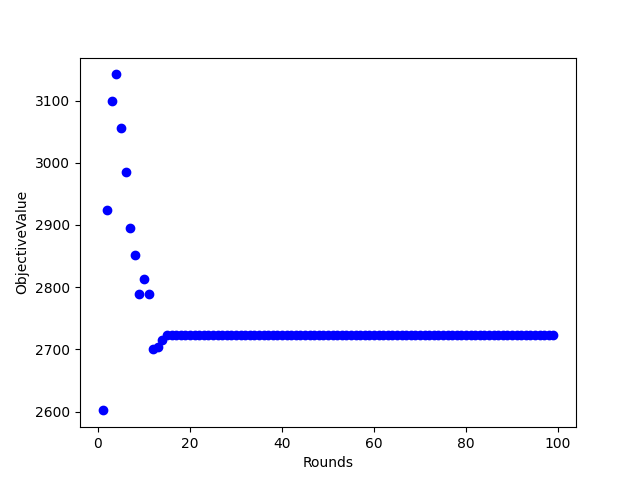
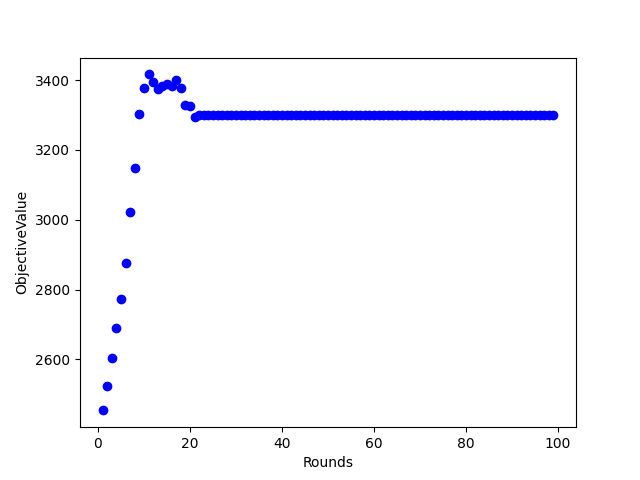
heatmap

diff --git a/synthetic instances/main.py b/synthetic instances/main.py
@@ -1,4 +1,5 @@
 import random
+import time
 import numpy as np
 import graph
 import optimal
@@ -7,14 +8,16 @@ import alg2
 import matplotlib.pyplot as plt
 from advertiser import Advertiser
 from impression import Impression
+import seaborn as sns
 
 def frange(start, stop, step):
     while start < stop:
         yield start
         start += step
 
-def createSyntheticInstance(numAdvs, numImps, seed = 0):
-    random.seed(seed)
+def createSyntheticInstance(numAdvs, numImps, seed = None):
+    if seed is not None:
+        random.seed(seed)
     numTypes = 10
     advsList = []
     for i in range(numAdvs):
@@ -75,60 +78,85 @@ def test():
     weights = optimal.createVectorC(a,i)
     roundsArr, epsArr, lamArr, maxOverflowArr, timeArr, objArr = [], [], [], [], [], [] 
 
-    # for rounds in range (1,100):
-    #     print("Rounds:", rounds)
-    #     alg2Solved, alg2TimeTaken, maxOverflow = alg2.solve(a,i,weights,0.5,0.9,rounds)
-    #     alg2Obj = objectiveValue(alg2Solved, weights)
-    #     roundsArr.append(rounds)
-    #     maxOverflowArr.append(maxOverflow)
-    #     timeArr.append(alg2TimeTaken)
-    #     objArr.append(alg2Obj)
-    # graph.graph(roundsArr, maxOverflowArr, "Rounds", "MaximumBudgetOverflow")
-    # graph.graph(roundsArr, timeArr, "Rounds", "TimeTaken")
-    # graph.graph(roundsArr, objArr, "Rounds", "ObjectiveValue")
+    for rounds in range (1,100):
+        print("Rounds:", rounds)
+        alg2Solved, alg2TimeTaken, maxOverflow = alg2.solve(a,i,weights,0.25,0.435,rounds)
+        alg2Obj = objectiveValue(alg2Solved, weights)
+        roundsArr.append(rounds)
+        maxOverflowArr.append(maxOverflow)
+        timeArr.append(alg2TimeTaken)
+        objArr.append(alg2Obj)
+    graph.graph(roundsArr, maxOverflowArr, "Rounds", "MaximumBudgetOverflow")
+    graph.graph(roundsArr, timeArr, "Rounds", "TimeTaken")
+    graph.graph(roundsArr, objArr, "Rounds", "ObjectiveValue")
 
     # roundsArr, epsArr, lamArr, maxOverflowArr, timeArr, objArr = [], [], [], [], [], [] 
 
-    for eps in frange(0.01,1.0,0.025):
-        print("Epsilon:", eps)
-        alg2Solved, alg2TimeTaken, maxOverflow = alg2.solve(a,i,weights,0.5,eps,20)
-        alg2Obj = objectiveValue(alg2Solved, weights)
-        epsArr.append(eps)
-        maxOverflowArr.append(maxOverflow)
-        timeArr.append(alg2TimeTaken)
-        objArr.append(alg2Obj)
-    graph.graph(epsArr, maxOverflowArr, "Epsilon", "MaximumBudgetOverflow")
-    graph.graph(epsArr, timeArr, "Epsilon", "TimeTaken")
-    graph.graph(epsArr, objArr, "Epsilon", "ObjectiveValue")
+    # for eps in frange(0.01,1.0,0.025):
+    #     print("Epsilon:", eps)
+    #     alg2Solved, alg2TimeTaken, maxOverflow = alg2.solve(a,i,weights,0.5,eps,20)
+    #     alg2Obj = objectiveValue(alg2Solved, weights)
+    #     epsArr.append(eps)
+    #     maxOverflowArr.append(maxOverflow)
+    #     timeArr.append(alg2TimeTaken)
+    #     objArr.append(alg2Obj)
+    # graph.graph(epsArr, maxOverflowArr, "Epsilon", "MaximumBudgetOverflow")
+    # graph.graph(epsArr, timeArr, "Epsilon", "TimeTaken")
+    # graph.graph(epsArr, objArr, "Epsilon", "ObjectiveValue")
 
-    roundsArr, epsArr, lamArr, maxOverflowArr, timeArr, objArr = [], [], [], [], [], []
+    # roundsArr, epsArr, lamArr, maxOverflowArr, timeArr, objArr = [], [], [], [], [], []
 
-    for lam in frange(0.05,1.0,0.025):
-        print("Lambda:", lam)
-        alg2Solved, alg2TimeTaken, maxOverflow = alg2.solve(a,i,weights,lam,0.9,20)
-        alg2Obj = objectiveValue(alg2Solved, weights)
-        lamArr.append(lam)
-        maxOverflowArr.append(maxOverflow)
-        timeArr.append(alg2TimeTaken)
-        objArr.append(alg2Obj)
-    graph.graph(lamArr, maxOverflowArr, "Lambda", "MaximumBudgetOverflow")
-    graph.graph(lamArr, timeArr, "Lambda", "TimeTaken")
-    graph.graph(lamArr, objArr, "Lambda", "ObjectiveValue")
-        
+    # for lam in frange(0.05,1.0,0.025):
+    #     print("Lambda:", lam)
+    #     alg2Solved, alg2TimeTaken, maxOverflow = alg2.solve(a,i,weights,lam,0.9,20)
+    #     alg2Obj = objectiveValue(alg2Solved, weights)
+    #     lamArr.append(lam)
+    #     maxOverflowArr.append(maxOverflow)
+    #     timeArr.append(alg2TimeTaken)
+    #     objArr.append(alg2Obj)
+    # graph.graph(lamArr, maxOverflowArr, "Lambda", "MaximumBudgetOverflow")
+    # graph.graph(lamArr, timeArr, "Lambda", "TimeTaken")
+    # graph.graph(lamArr, objArr, "Lambda", "ObjectiveValue")
+
+def tuneEpsLam():
+    aArr, iArr, weightsArr = [], [], []
+    for c in range(5):
+        a, i = createSyntheticInstance(50,1000, c)
+        aArr.append(a)
+        iArr.append(i)
+        weightsArr.append(optimal.createVectorC(a,i))
+    eps_lam_dict1 = {}
+    eps_lam_dict2 = {}
+    for eps in frange(0.01, 1.0, 0.05):
+        for lam in frange(0.05, 0.5, 0.05):
+            print("Epsilon:", eps, "Lambda:", lam)
+            objArr = []
+            for (a, i, weights) in zip(aArr, iArr, weightsArr):
+                alg2Solved, _, _ = alg2.solve(a,i,weights,lam,eps,50)
+                alg2Obj = objectiveValue(alg2Solved, weights)
+                objArr.append(alg2Obj)
+            avgObj = sum(objArr) / len(objArr)
+            stdDev = np.std(objArr)
+            alg2Obj = avgObj
+            eps_lam_dict1[(round(eps,3), round(lam,3))] = alg2Obj
+            eps_lam_dict2[(round(eps,3), round(lam,3))] = stdDev
+    eps_values1 = sorted(set(eps for eps, _ in eps_lam_dict1.keys()))
+    lam_values1 = sorted(set(lam for _, lam in eps_lam_dict1.keys()))
+    obj_values = [[eps_lam_dict1[(eps, lam)] for eps in eps_values1] for lam in lam_values1]
+    sns.heatmap(obj_values, cmap = "rocket", xticklabels=eps_values1, yticklabels=lam_values1)
+    plt.xlabel('Epsilon')
+    plt.ylabel('Lambda')
+    plt.title('Objective Value Heatmap')
+    plt.show()
+
 # main()
 test()
-
-# make graph for time v. profit for several algorithms by varying synthetic instance size using matplotlib
-
-# make line graphs
-# bigger instances for alg1 and 2 - done
-# rounds vs maximum budget overflow - done
-# same graphs on bad instances
-# make obj vs every parameter for alg2 
-# make time vs every parameter for alg2
+# tuneEpsLam() # lam = 0.25, eps = 0.435
 
 # make heat map for eps vs lam testing - pick 5 synthetic instances of same size and find avg of obj on each
 # sort dictionary and implement best fit lines
 # look at paper and create corrupted instances and test them
 
 # End Goal: find tuned params for eps/lam and then test on larger and corrupted instances
+
+# New parameter tuning for eps and lam using more rounds and less jumps

diff --git a/synthetic instances/advertiser.py b/synthetic instances/advertiser.py
@@ -14,6 +14,9 @@ class Advertiser:
     def __str__(self):
         return "Budget: " + str(self.budget)
     
+    def __repr__(self):
+        return "Budget: " + str(self.budget)
+    
     def returnBudget(self):
         return self.budget
     
@@ -25,8 +28,11 @@ class Advertiser:
     
     def returnImpressions(self):
         return self.impressions
-    
 
-    
-    
+# Ways to corrupt instances:
+   
+# Randomly multiply/divide valuations by 100
+# Remove random edges
+# Coin flip between exponential and uniform distribution (or any other distribution)
+# Randomly change random.expovariate(1) to random.expovariate(10 or 100)
     
